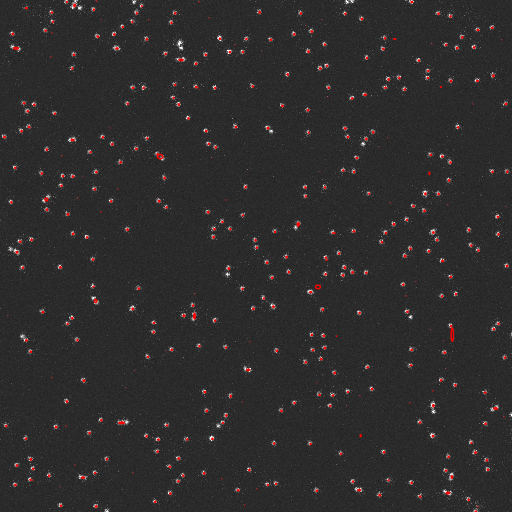
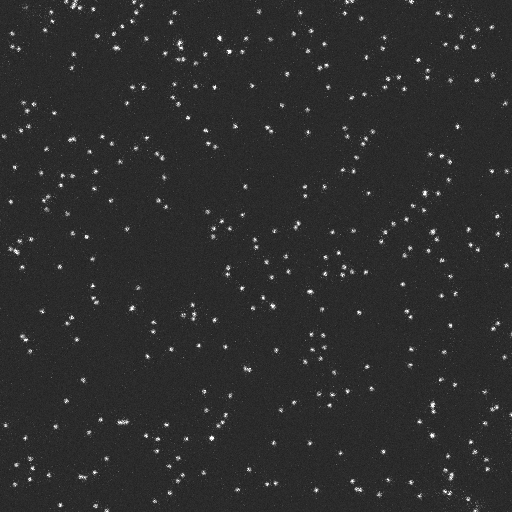
Enable to save images by output_frames

Changed region(s): [[0.875, 0.625, 0.9062, 0.6562], [0.375, 0.5938, 0.4062, 0.625]]

diff --git a/bioimaging/epifm.py b/bioimaging/epifm.py
@@ -19,6 +19,7 @@ from scipy.ndimage import map_coordinates
 from .effects import PhysicalEffects
 from . import io
 from .config import Config
+from .image import save_image, convert_8bit
 
 from logging import getLogger
 _log = getLogger(__name__)
@@ -663,8 +664,9 @@ class EPIFMSimulator:
         return new_data
 
     def output_frames(
-            self, input_data, pathto='./images', image_fmt='image_%07d.png', data_fmt='image_%07d.npy',
-            true_fmt='true_%07d.npy', cmin=None, cmax=None, rng=None):
+            self, input_data, pathto='./images', data_fmt='image_%07d.npy', true_fmt='true_%07d.npy',
+            image_fmt='image_%07d.png', cmin=None, cmax=None, low=None, high=None, cmap=None,
+            rng=None):
         """Output all images from the given particle data.
 
         Args:
@@ -686,7 +688,10 @@ class EPIFMSimulator:
             cmin (int, optional): A minimal value used to generate 8-bit images.
             cmax (int, optional): A maximum value used to generate 8-bit images.
             low (int, optional): A minimal value used to generate 8-bit images.
+                Defaults to 0.
             high (int, optional): A maximum value used to generate 8-bit images.
+                Defaults to 255.
+            cmap (matplotlib.colors.ColorMap): A color map to visualize images.
                 See also `bioimaging.image.convert_8bit`.
             rng (numpy.RandomState, optional): A random number generator.
 
@@ -694,6 +699,9 @@ class EPIFMSimulator:
         # Check and create the folders for image and output files.
         if not os.path.exists(pathto):
             os.makedirs(pathto)
+
+        low = 0 if low is None else low
+        high = 255 if high is None else high
 
         for frame_index in range(self.num_frames()):
             camera, true_data = self.output_frame(input_data, frame_index, rng=rng)
@@ -709,10 +717,10 @@ class EPIFMSimulator:
                 numpy.save(true_file_name, true_data)
 
             # save images to numpy-binary file
-            if data_fmt is not None:
-                data_file_name = os.path.join(pathto, data_fmt % (frame_index))
-                numpy.save(data_file_name, camera)
-
+            if image_fmt is not None:
+                bytedata = convert_8bit(camera[: , : , 1], cmin, cmax, low, high)
+                image_file_name = os.path.join(pathto, image_fmt % (frame_index))
+                save_image(image_file_name, bytedata, cmap, low, high)
 
     def output_frame(self, input_data, frame_index, rng=None):
         """Output an image from the given particle data.

diff --git a/scripts/tirf_script.py b/scripts/tirf_script.py
@@ -67,7 +67,7 @@ def test_tirf() :
     new_input_data = sim.apply_photophysics_effects(input_data, rng=rng)
 
     ## output frame data
-    sim.output_frames(new_input_data, pathto=output_path, rng=rng)
+    sim.output_frames(new_input_data, pathto=output_path, cmin=cmin, cmax=cmax, rng=rng)
 
     # for i in range(sim.num_frames()):
     #     camera, true_data = sim.output_frame(new_input_data, i, rng=rng)
